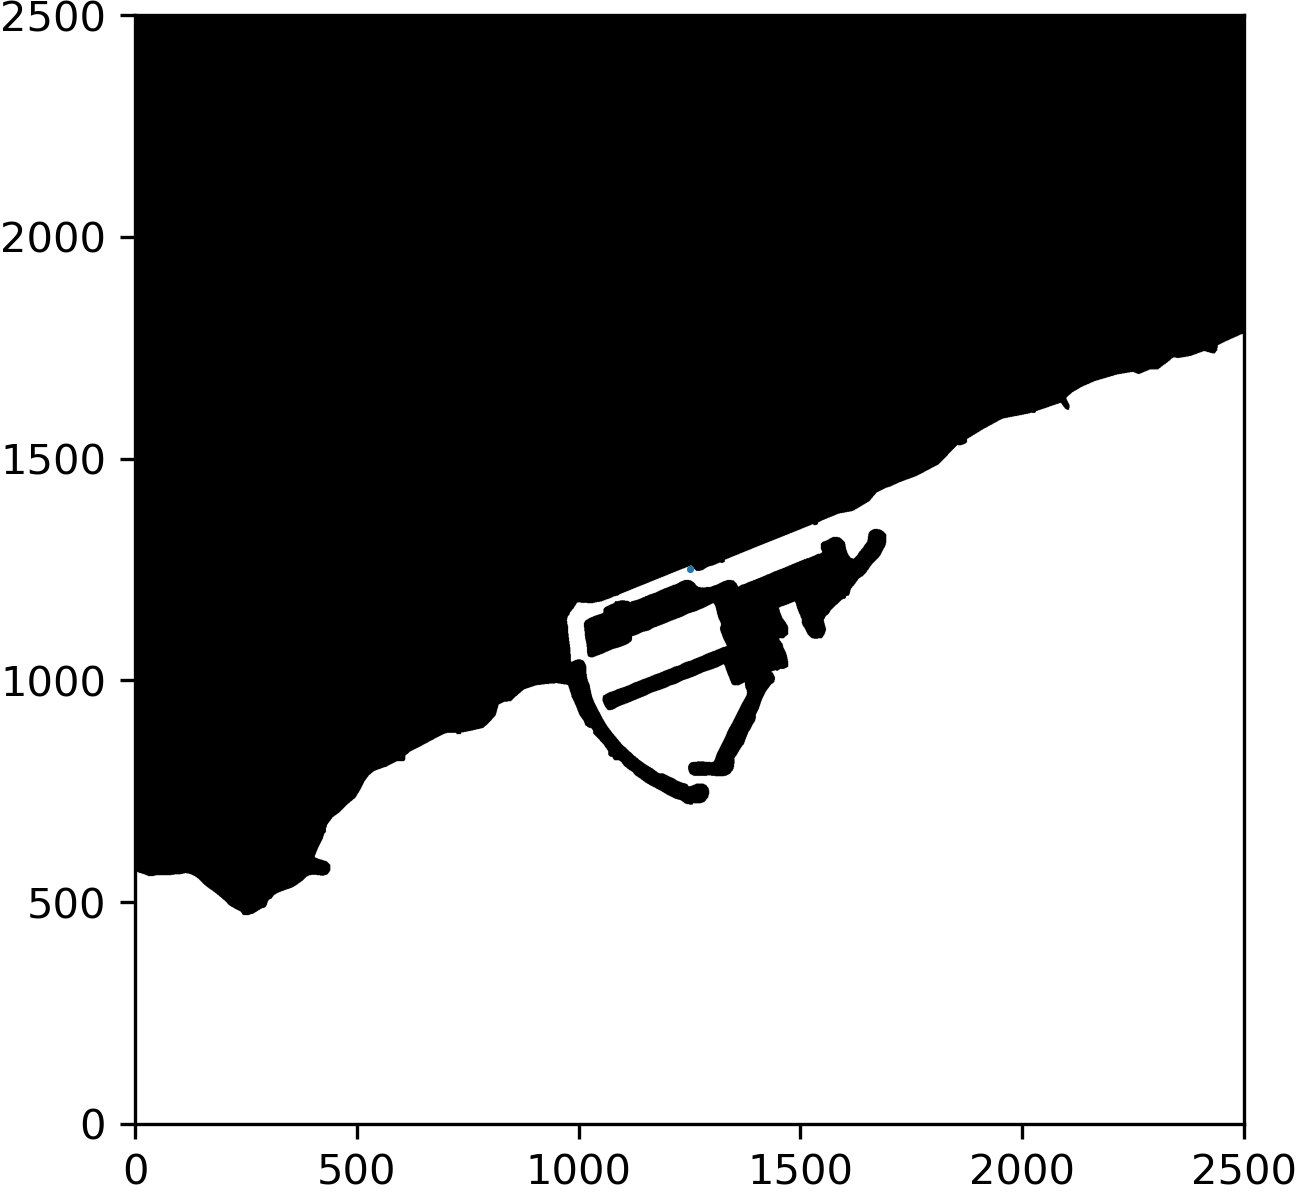
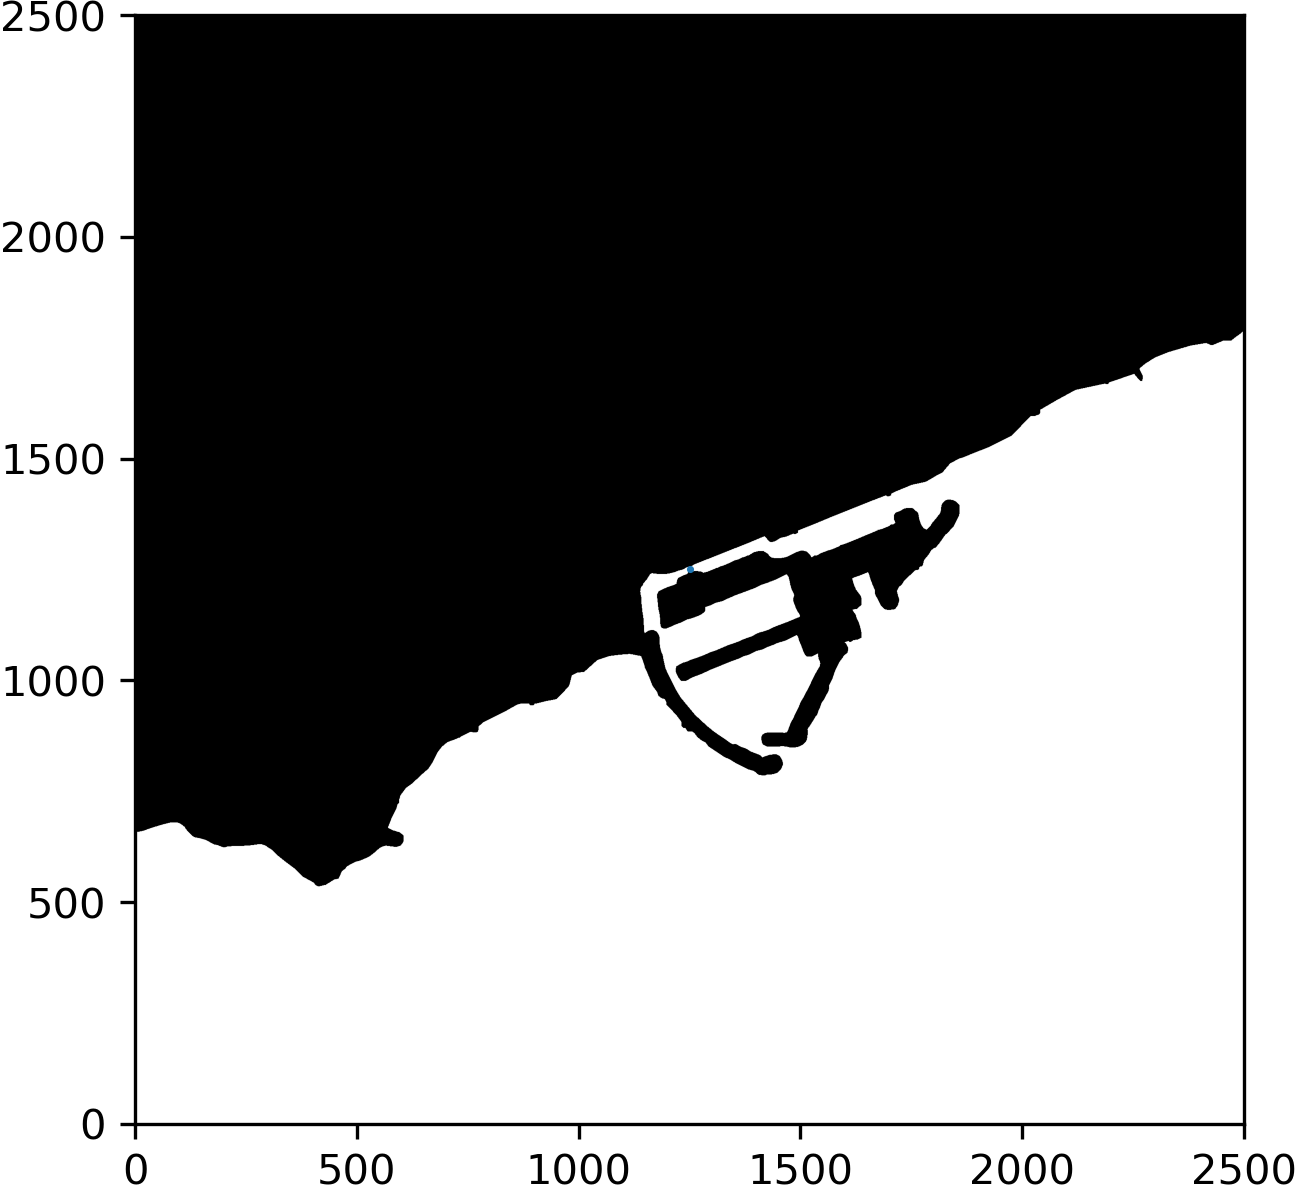
updated look of plots

diff --git a/src/plot.py b/src/plot.py
@@ -97,8 +97,18 @@ def plot_mission(enc_settings, identifier, logpath):
     enc = ENC(config='map_settings.yaml')
     enc.update()
 
-    # Drawing waypoint with arrows between:
-    previous_waypoint_coordinates = 0
+    # Drawing waypoint with lines between:
+    waypoints_all_positions = []
+    for index in range(len(position['x'])):
+        position_coordinates = (position['x'][index], position['y'][index])
+        waypoints_all_positions.append(position_coordinates)
+    enc.display.draw_line(
+        points=waypoints_all_positions,
+        color = 'white',
+        width=1,    
+        )
+
+    # Adding the waypointt gots
     for index in waypoints['seq']:
         waypoint_coordinates = (waypoints['x'][index], waypoints['y'][index])
 
@@ -108,7 +118,7 @@ def plot_mission(enc_settings, identifier, logpath):
                                     color='green',
                                     fill=True,
                                     )
-        elif index == len(waypoints['seq']):
+        elif index == len(waypoints['seq']) - 1:
             enc.display.draw_circle(center=waypoint_coordinates,
                                     radius=4.0,
                                     color='red',
@@ -120,30 +130,22 @@ def plot_mission(enc_settings, identifier, logpath):
                                     color='white',
                                     fill=True,
                                     )
-
-        if (previous_waypoint_coordinates != 0):
-            enc.display.draw_arrow(start=previous_waypoint_coordinates,
-                                end=waypoint_coordinates,
-                                color='white',
-                                width=0.25,
-                                fill=True)
-    
-        previous_waypoint_coordinates = waypoint_coordinates
     
     # Draw actual path
-    previous_position_coordinates = 0
-    all_positions = []
+    gps_all_positions = []
     for index in range(len(position['x'])):
         position_coordinates = (position['x'][index], position['y'][index])
-        all_positions.append(position_coordinates)
+        gps_all_positions.append(position_coordinates)
 
-    enc.display.draw_line(points=all_positions,
-                            color='red',
+    enc.display.draw_line(points=gps_all_positions,
+                            color='blue',
                             width=0.25,
                             )
 
+
     enc.display.show()
     
+
 
 
 

diff --git a/src/util_functions.py b/src/util_functions.py
@@ -1,4 +1,5 @@
 from pyproj import Transformer # For coordinate transforming
+from src.mavlink_communication import get_gps
 from time import localtime, strftime
 import matplotlib.pyplot as plt
 import ruamel.yaml # For Yaml
@@ -50,11 +51,13 @@ def configure_enc(yaml_path, center, size):
         yaml.dump(content, yamlfile)
 
 
-def log_mission_items(identifier, logpath, mission_items):
+def log_mission_items(identifier, logpath, mission_items, the_connection):
+    starting_position = get_gps(the_connection)
     with open(f'{logpath}/mission_log_waypoints_{identifier}.csv', 'a', newline='\n') as file:
         writer = csv.writer(file, delimiter=';')
+        writer.writerow([strftime("%d/%m/%Y_%H:%M:%S", localtime()) , 0, starting_position.lat/10**7 , starting_position.lon/10**7])
         for item in mission_items:
-            writer.writerow([strftime("%d/%m/%Y_%H:%M:%S", localtime()) , item.seq, item.x, item.y])
+            writer.writerow([strftime("%d/%m/%Y_%H:%M:%S", localtime()) , item.seq+1, item.x, item.y])
 
 def log_enc_config(identifier,logpath, size, center): 
     with open(f'{logpath}/mission_log_config_{identifier}.csv', 'a', newline='\n') as file:

diff --git a/main.py b/main.py
@@ -27,7 +27,7 @@ if __name__ == '__main__':
 
 
     # Initializing connection via MAVLink
-    the_connection = mav.establish_heartbeat('udpin:192.168.2.1:14770')
+    the_connection = mav.establish_heartbeat('udpin:localhost:14541') # 192.168.2.1:14770
 
     mav.clear_mission(the_connection) # Clearing previous mission
 
@@ -130,7 +130,7 @@ if __name__ == '__main__':
             mav.start_mission(the_connection)
 
             mission_items = mav.print_mission_items(the_connection)
-            uf.log_mission_items(identifier,logging_path, mission_items)
+            uf.log_mission_items(identifier,logging_path, mission_items, the_connection)
             mav.log_until_completion(the_connection, identifier, len(mission_waypoints), logging_path) # Need to be replaced with "log_position_until_completion(the_connection, len(mission_waypoints))", which stores data within a csv file to be used for plotting and analysis of actual path compared to planned path.
             print('Mission was completed!')
 
